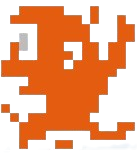
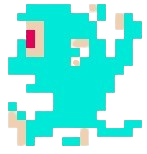
ya merito

diff --git a/ObstaculoSaltarin.java b/ObstaculoSaltarin.java
@@ -1,0 +1,132 @@
+import java.awt.Graphics;
+import java.awt.Image;
+import javax.swing.ImageIcon;
+import java.util.Random;
+import java.util.ArrayList;
+
+public class ObstaculoSaltarin {
+
+    private int x, y;
+    public static int VelocidadX, VelocidadY;
+    private boolean saltando;
+    private static final int GRAVEDAD = 1;
+    private int contador = 0;
+    private static final int INTERVALO = 30;
+
+    private boolean caminando;
+    private Image imagenParado;
+    private Image imagenCaminando;
+    private Image imagenSaltando;
+    private boolean saltarEnPosicionInicial = false; // Nueva variable
+
+    public static ArrayList<ObstaculoSaltarin> obstaculosSaltarines = new ArrayList<ObstaculoSaltarin>();
+
+    public ObstaculoSaltarin() {
+        ImageIcon ii1 = new ImageIcon(getClass().getResource("/Resources/obstacleSaltarin1.png"));
+        Image img1 = ii1.getImage();
+        imagenParado = img1.getScaledInstance(50, 50, Image.SCALE_SMOOTH);
+
+        ImageIcon ii2 = new ImageIcon(getClass().getResource("/Resources/obstacleSaltarin2.png"));
+        Image img2 = ii2.getImage();
+        imagenCaminando = img2.getScaledInstance(50, 50, Image.SCALE_SMOOTH);
+
+        ImageIcon ii3 = new ImageIcon(getClass().getResource("/Resources/obstacleJump.png"));
+        Image img3 = ii3.getImage();
+        imagenSaltando = img3.getScaledInstance(50, 50, Image.SCALE_SMOOTH);
+
+        caminando = false;
+        x = 800;
+        y = 185;
+        VelocidadX = 0;
+        VelocidadY = 0;
+        saltando = false;
+    }
+
+    public void mover() {
+        y += VelocidadY;
+        x -= VelocidadX;
+
+        if (y >= 185) {
+            y = 185;
+            VelocidadY = 0;
+            saltando = false;
+        } else {
+            VelocidadY += GRAVEDAD; // Aplicamos efecto de gravedad
+        }
+
+        // Establecer saltarEnPosicionInicial en true cuando el obstáculo esté en la
+        // mitad de la pantalla
+        if (x < 400 && !saltarEnPosicionInicial) {
+            saltarEnPosicionInicial = true;
+            saltar();
+        }
+
+    }
+
+    public void dibujar(Graphics g) {
+        if (caminando) {
+            g.drawImage(imagenParado, x, y, null);
+        }
+
+        if (!caminando) {
+            g.drawImage(imagenCaminando, x, y, null);
+        }
+
+        if (saltando) {
+            g.drawImage(imagenSaltando, x, y, null);
+        }
+
+    }
+
+    public void actualizarObstaculos() {
+
+        contador++;
+
+        if (contador >= INTERVALO) {
+            Random rnd = new Random();
+            if (rnd.nextDouble() < 0.05) {
+                obstaculosSaltarines.add(new ObstaculoSaltarin());
+                VelocidadX = 5;
+                caminando = true;
+            }
+            contador = 0;
+        }
+
+        for (int i = obstaculosSaltarines.size() - 1; i >= 0; i--) {
+            ObstaculoSaltarin obs = obstaculosSaltarines.get(i);
+            obs.mover();
+            if (obs.getX() <= 0) {
+                obstaculosSaltarines.remove(i);
+            }
+        }
+    }
+
+    public void saltar() {
+        if (saltarEnPosicionInicial && !saltando) {
+            VelocidadY = -18;
+            VelocidadX = 10; // Velocidad hacia la derecha
+            saltando = true;
+        }
+    }
+
+    public static ArrayList<ObstaculoSaltarin> getObstaculos() {
+        return obstaculosSaltarines;
+    }
+
+    public int getX() {
+        return x;
+    }
+
+    public int getY() {
+        return y;
+    }
+
+    public int getVelocidadX() {
+        return VelocidadX;
+    }
+
+    public int getVelocidadY() {
+        return VelocidadY;
+    }
+
+}

diff --git a/Obstaculo.java b/Obstaculo.java
@@ -8,15 +8,14 @@ public class Obstaculo {
 
     private int x, y;
     public static int VelocidadX, VelocidadY;
-    private boolean saltando;
-    private static final int GRAVEDAD = 1;
+
     private int contador = 0;
-    private static final int INTERVALO = 10;
+    private static final int INTERVALO = 15;
 
     private boolean caminando;
     private Image imagenParado;
     private Image imagenCaminando;
-    private Image imagenSaltando;
+
     public static ArrayList<Obstaculo> obstaculos = new ArrayList<Obstaculo>();
 
     public Obstaculo() {
@@ -28,30 +27,15 @@ public class Obstaculo {
         Image img2 = ii2.getImage();
         imagenCaminando = img2.getScaledInstance(50, 50, Image.SCALE_SMOOTH);
 
-        ImageIcon ii3 = new ImageIcon(getClass().getResource("/Resources/obstacleJump.png"));
-        Image img3 = ii3.getImage();
-        imagenSaltando = img3.getScaledInstance(50, 50, Image.SCALE_SMOOTH);
-
         caminando = false;
         x = 800;
         y = 185;
         VelocidadX = 0;
-        VelocidadY = 0;
-        saltando = false;
+
     }
 
     public void mover() {
-        y += VelocidadY;
         x -= VelocidadX;
-
-        if (y >= 185) {
-            y = 185;
-            VelocidadY = 0;
-            saltando = false;
-        } else {
-            VelocidadY += GRAVEDAD; // Aplicamos efecto de gravedad
-        }
-
     }
 
     public void dibujar(Graphics g) {
@@ -62,22 +46,17 @@ public class Obstaculo {
         if (!caminando) {
             g.drawImage(imagenCaminando, x, y, null);
         }
-
-        if (saltando) {
-            g.drawImage(imagenSaltando, x, y, null);
-        }
-
     }
 
     public void actualizarObstaculos() {
-        VelocidadX = 5;
-        caminando = true;
         contador++;
 
         if (contador >= INTERVALO) {
             Random rnd = new Random();
             if (rnd.nextDouble() < 0.1) {
                 obstaculos.add(new Obstaculo());
+                VelocidadX = 5;
+                caminando = true;
             }
             contador = 0;
         }
@@ -88,16 +67,7 @@ public class Obstaculo {
             if (obs.getX() <= 0) {
                 obstaculos.remove(i);
             }
-            // Determinar si el obstáculo actual saltará hacia la izquierda
 
-        }
-    }
-
-    public void saltar() {
-        if (!saltando) {
-            VelocidadY = -1;
-            VelocidadX = -40; // Velocidad hacia la derecha
-            saltando = true;
         }
     }
 

diff --git a/Juego.java b/Juego.java
@@ -13,11 +13,13 @@ public class Juego extends JPanel implements KeyListener, ActionListener {
     private Fondo fondo;
     private Personaje personaje;
     private Obstaculo obstaculo;
+    private ObstaculoSaltarin obstaculosaltarin;
     private Timer temporizador;
     private Sonido sonidoFondo;
 
     private Thread movimientoPersonaje;
     private Thread movimientoObstaculo;
+    private Thread movimientoObstaculoSaltarin;
     private Thread movimientoFondo;
     private Thread musicaFondo;
 
@@ -32,6 +34,7 @@ public class Juego extends JPanel implements KeyListener, ActionListener {
         fondo = new Fondo();
         personaje = new Personaje();
         obstaculo = new Obstaculo();
+        obstaculosaltarin = new ObstaculoSaltarin();
 
         ventana.addKeyListener(this);
         ventana.add(this);
@@ -69,6 +72,21 @@ public class Juego extends JPanel implements KeyListener, ActionListener {
             }
         });
         movimientoObstaculo.start();
+
+        // Crear el hilo para el movimiento del personaje
+        movimientoObstaculoSaltarin = new Thread(new Runnable() {
+            public void run() {
+                while (true) {
+                    obstaculosaltarin.actualizarObstaculos();
+                    try {
+                        Thread.sleep(16); // 60 fps
+                    } catch (InterruptedException e) {
+                        e.printStackTrace();
+                    }
+                }
+            }
+        });
+        movimientoObstaculoSaltarin.start();
 
         // Crear el hilo para el movimiento del personaje
         movimientoFondo = new Thread(new Runnable() {
@@ -138,6 +156,10 @@ public class Juego extends JPanel implements KeyListener, ActionListener {
         fondo.dibujar(g, personaje.getX());
         personaje.dibujar(g);
         for (Obstaculo obs : Obstaculo.getObstaculos()) {
+            obs.dibujar(g);
+        }
+
+        for (ObstaculoSaltarin obs : ObstaculoSaltarin.getObstaculos()) {
             obs.dibujar(g);
         }
     }
